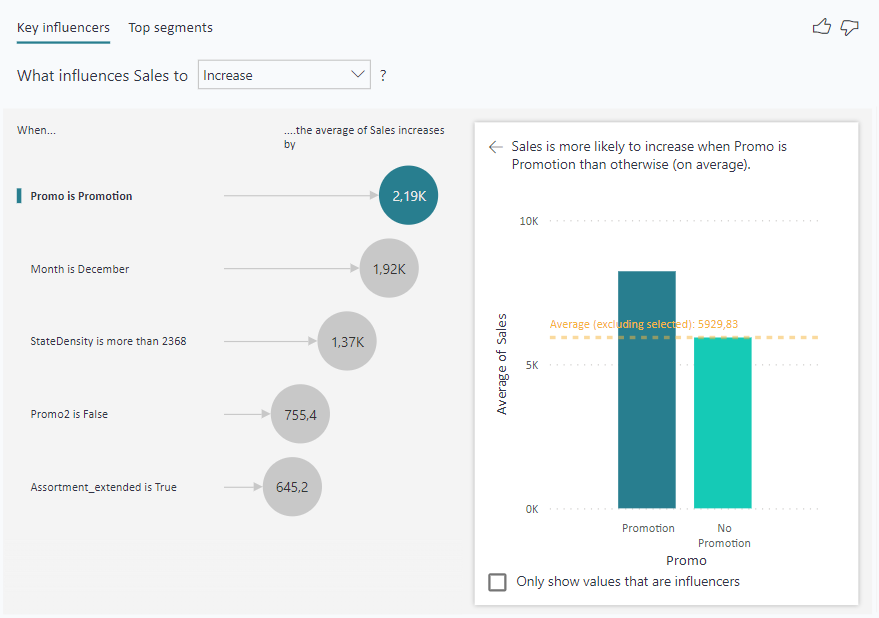
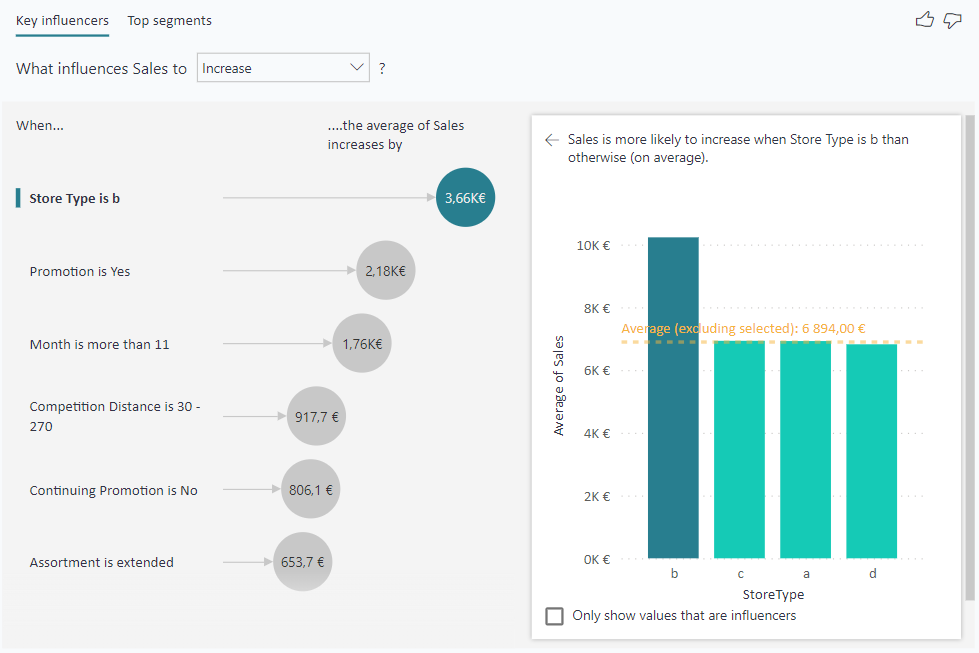
updated sales project, data analysis improved

diff --git a/sales-forecasting.html b/sales-forecasting.html
@@ -75,7 +75,7 @@
         <div class="container mt-5">
         	<div class="row justify-content-center mb-5 pb-5">
             <div class="col-md-8 text-center heading-section ftco-animate">
-              <span style="font-size: small; color:rgb(226, 162, 102)">2 min read</span><br><br>
+              <span style="font-size: small; color:rgb(226, 162, 102)">3 min read</span><br><br>
               <span>Regression - Time-Series</span>
               <h2>Sales Analysis and Forecasting</h2>
               
@@ -88,26 +88,61 @@
           <div class="row d-flex justify-content-center">
             <div class="col-md-10">
               <h2 class="mb-3">1. Objective</h2>
-              <p>It is important for a business to forecast sales to better anticipate and make better business decisions, 
-                  but even more important it is to understand what impact sales and which stores are performing better or worse</p>
+              <p>Analyzing past sales and being able to forecast future sales are two very important processes for any business, as they allow companies 
+                to make better data-driven decisions.</p>
               <p>The objective of this project is to gain insights from the data and forecast sales</p>
-              <p>For this, I'll use time-series data from 1115 different stores of the "Rossmann" chain, as well as additional data related to the stores 
+              <p>For this, I use time-series data (Jan 2013 - Jul 2015) from 1115 different stores of the "Rossmann" chain, as well as additional data related to the stores 
                   (available on <a href="https://www.kaggle.com/c/rossmann-store-sales">Kaggle</a>).</p>
               
               <p style="font-style:italic">Note: this data was originally used in the context of a Kaggle Competition from 2016</p>
               
-              <h2 class="mb-3">2. Insights</h2>  
+              <h2 class="mb-3">2. Data Analysis</h2>  
+              <p>Data exploration was done using Python but the main analysis of the data was done using Power BI and the results are available as a report.</p>
+              <p>Before starting the analysis, a few dimensions to analyze sales were selected:</p>
+                <ul>
+                  <li>Does time have an impact on sales? (e.g. seasonality)</li>
+                  <li>Do promotions increase sales?</li>
+                  <li>Does stores sales performance vary by state?</li>
+                  <li>What characterizes the best and worst performing stores?</li>
+                </ul>
+
+              <p>From analyzing the data, the following insights were found:</p> 
+              <h4 class="mb-3">2.1 Time</h4>  
+              <!-- <p>From analyzing the data, the following insights were found:</p>  -->
               <ul>
-                <li>On average, sales have increased between the given period (2013-2015) and the month with the most sales is December.</li>
-                <li>Sales are relatively higher when there is a promotion & an "extra" or "extended" type of assortment. The recommendation would be to expand this type
-                  of assortment across all stores after applying a cost-benefit analysis</li>
-                <li>Moreover, the area in which the store is located plays an important role on sales. Stores located on more populated areas, 
-                    with higher GDPs, get more sales. </li>
-                <li>Promotions have a mixed effect on sales. Normal promotions running in a given day seem to increase sales, but ongoing promotions (Promo2) 
-                    seem to be associated with lower sales. The recommendation would be to further analyze why ongoing promotions lower sales and see if 
-                    they are responsible for this or if the problem is an omitted-variable bias.</li>
+                <li>Total sales declined between 2013 and 2014 mostly because there are no registered sales from stores in Bavaria in the second half of 2014. 
+                  This is one of the states that usually have the most sales, and thus, this really impacts global performance.</li>
+                <li>Total sales in 2015 (data available from January through July) have already exceeded 2014 sales, and average sales increased 
+                  between 2013 and 2014 and between 2014 and 2015. </li>
+                <li>Finally, as expected, total and average sales are higher in December.</li>
               </ul>
 
+              <h4 class="mb-3">2.2 Promotions</h4>  
+              <!-- <p>From analyzing the data, the following insights were found:</p>  -->
+              <ul>
+                <li>Promotions have a mixed effect on sales. Normal promotions running in a given day seem to increase sales, but ongoing promotions
+                  seem to be associated with lower sales. </li>
+                <li>In addition, on average, Type "B" stores, which are less frequent and have higher average sales, are the most negatively affected by these ongoing promotions.</li>
+              </ul>
+              <p>Further analysis and additional data are needed to understand why ongoing promotions lower sales.</p>
+              <h4 class="mb-3">2.3 States</h4>  
+              <!-- <p>From analyzing the data, the following insights were found:</p>  -->
+              <ul>
+                <li>There is no clear trend between average sales and States Density or Gross Regional Product (GRP), although there seems to be a 
+                  small positive correlation.</li>
+                <li>The highest average sales are in the two more dense states: Berlin and Hamburg, and the top 4 state is also the one with the highest GRP 
+                  (North Rhine-Westphalia)</li>
+                
+              </ul>
+
+              <h4 class="mb-3">2.4 Stores</h4>  
+              <!-- <p>From analyzing the data, the following insights were found:</p>  -->
+              <ul>
+                <li>As mentioned before, the highest average sales come from "B" type stores. There are only 17 stores of this type among the 1115 total,
+                  and 5 of them are in Berlin. </li>
+                <li>On average, stores with an "Extra" assortment have higher sales. The "Extended" type of assortment also seems to increase sales, 
+                  specially in stores of type "B".</li>
+              </ul>
 
               <h2 class="mb-3">3. Forecasting Model Results</h2>  
               <p>The final model is a RandomForestRegressor with a R2 = 0.903, a RMSE = 960 and a MAE = 646 (based on performance on validation set)</p>
@@ -121,19 +156,19 @@
                       --<a href="https://www.kaggle.com/competitions/rossmann-store-sales/leaderboard">Leaderboard</a>)</li>
               </ul>
 
-              <h2 class="mb-3">4. Overview</h2>
+              <h2 class="mb-3">4. Process</h2>
               <h4># Preprocessing and EDA</h4>
                 <ul>
                   <li>Conducted an exploratory data analysis using Python to be able to better understand the data and clean it for future forecasting</li>
                   <li>Applied an Adfuller statistical test to verify stationarity</li>
                   <li>Studied differences between the best and worst performing stores on Python</li>
-                  <li>Recreated the preprocessing steps on Power BI using M and DAX, then conducted further analysis on stores performance</li>
+                  <li>Recreated the preprocessing steps on Power BI using M and DAX, then conducted further analysis</li>
               </ul> 
 
               <h4># Modeling</h4>
                 <ul>
                   <li>Explored different tree-based models and fine-tuned hyperparameters on the best peforming models using 3-fold cross validation with time series split</li>
-                  <li>Applied a preprocessing pipeline to clean validation set to test model performance</li>
+                  <li>Applied a preprocessing pipeline to clean validation set to evaluate model performance</li>
                   <li>Visualized feature importance as well as interpretations with LIME (Local Interpretable Model-agnostic Explanations)</li>
                   <li>Cleaned and predicted on test data from competition then applied a late submission with final RMSPE score of 0.13248</li>
               </ul> 
@@ -146,38 +181,43 @@
 
                 <!-- Full-width images with number text -->
                 <div class="mySlides">
-                  <div class="numbertext">1 / 6</div>
+                  <div class="numbertext">1 / 7</div>
                     <img class="demo cursor" src="images/sales-forecasting/targetDistribution.png" style="width:88%; margin-left:6%; margin-right:6%; "
                     alt="Target Distribution" >
                   </div>
 
                   <div class="mySlides">
-                  <div class="numbertext">2 / 6</div>
+                  <div class="numbertext">2 / 7</div>
                     <img class="demo cursor" src="images/sales-forecasting/Sales2015.png" style="width:88%; margin-left:6%; margin-right:6%;"
                     alt="Evolution of Sales on 2015" >
                   </div>
 
                 <div class="mySlides">
-                  <div class="numbertext">3 / 6</div>
+                  <div class="numbertext">3 / 7</div>
                     <img class="demo cursor" src="images/sales-forecasting/assortExt.png" style="width:88%; margin-left:6%; margin-right:6%;"
                     alt="Low performing stores seem to have less frequently an 'Extended' Assortment">
                 </div>
 
                 <div class="mySlides">
-                    <div class="numbertext">4 / 6</div>
+                    <div class="numbertext">4 / 7</div>
                       <img class="demo cursor" src="images/sales-forecasting/stateDensity.png" style="width:88%; margin-left:6%; margin-right:6%;"
                       alt="Top Performing Stores are located on High Density Staets">
                 </div>
 
                 <div class="mySlides">
-                <div class="numbertext">5 / 6</div>
+                <div class="numbertext">5 / 7</div>
                     <img class="demo cursor" src="images/sales-forecasting/SalesForecasting.png" style="width:88%; margin-left:6%; margin-right:6%;"
                     alt="Sales Forecasting">
                 </div>
 
+                <div class="mySlides">
+                  <div class="numbertext">6 / 7</div>
+                      <img class="demo cursor" src="images/sales-forecasting/regions.png" style="width:88%; margin-left:6%; margin-right:6%;"
+                      alt="Sales per State (Power BI)">
+                  </div>
 
                 <div class="mySlides">
-                <div class="numbertext">6 / 6</div>
+                <div class="numbertext">7 / 7</div>
                     <img class="demo cursor" src="images/sales-forecasting/KPIs.png" style="width:88%; margin-left:6%; margin-right:6%;"
                     alt="Key Influencers (Power BI)">
                 </div>
